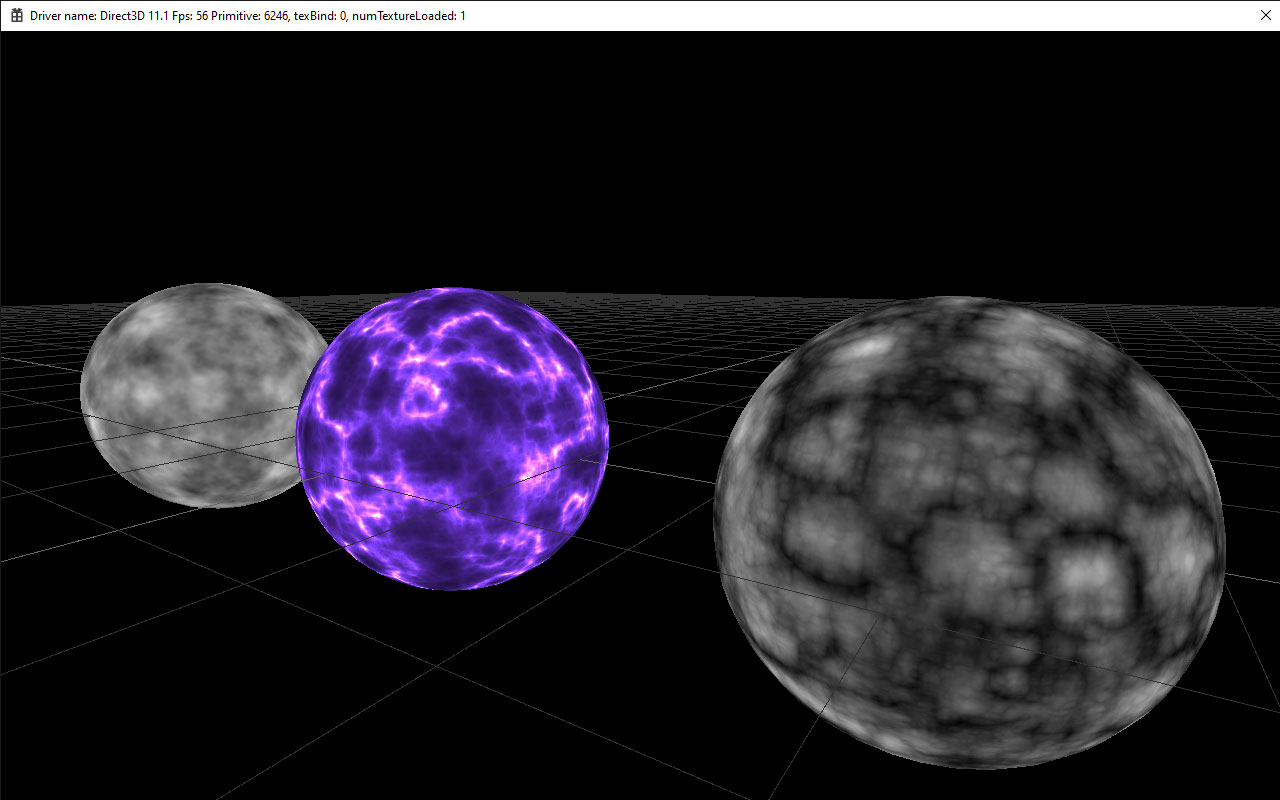
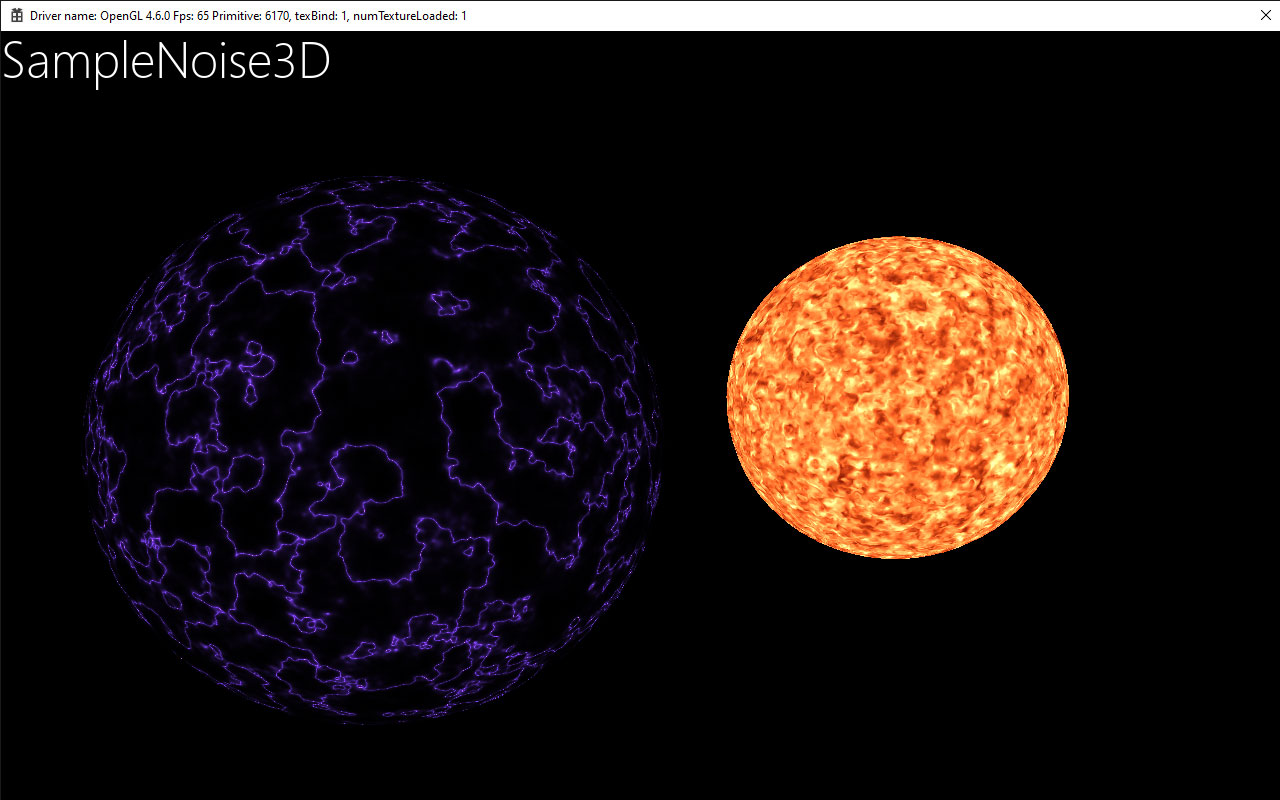
Add StarSequence3D.xml shader

diff --git a/Samples/Noise3D/Source/SampleNoise3D.cpp b/Samples/Noise3D/Source/SampleNoise3D.cpp
@@ -14,7 +14,8 @@ void installApplication(const std::vector<std::string>& argv)
 
 SampleNoise3D::SampleNoise3D() :
 	m_scene(NULL),
-	m_forwardRP(NULL)
+	m_forwardRP(NULL),
+	m_noiseOffset(3.0f, 0.0f, 0.0f)
 #if defined(USE_FREETYPE)	
 	, m_largeFont(NULL)
 #endif
@@ -101,6 +102,12 @@ void SampleNoise3D::onInitApp()
 	sphereObj->getTransformEuler()->setPosition(core::vector3df(0.0f, 0.0f, 0.0f));
 	m_materials.push_back(sphere->getMaterial());
 
+	sphereObj = zone->createEmptyObject();
+	sphere = sphereObj->addComponent<CSphereComponent>();
+	sphere->getMaterial()->changeShader("BuiltIn/Shader/Noise/StarSequence3D.xml");
+	sphereObj->getTransformEuler()->setPosition(core::vector3df(-3.0f, 0.0f, 0.0f));
+	m_materials.push_back(sphere->getMaterial());
+
 #if defined(USE_FREETYPE)
 	m_largeFont = new CGlyphFont();
 	m_largeFont->setFont("Segoe UI Light", 50);
@@ -121,13 +128,13 @@ void SampleNoise3D::onInitApp()
 
 void SampleNoise3D::onUpdate()
 {
-	m_noiseOffset = m_noiseOffset + core::vector3df(-0.0003f, 0.0003f, 0.0003f) * getTimeStep();
+	m_noiseOffset = m_noiseOffset + core::vector3df(-0.0003f, 0.0000f, 0.0003f) * getTimeStep();
 
 	float params[4];
 	params[0] = m_noiseOffset.X;
 	params[1] = m_noiseOffset.Y;
 	params[2] = m_noiseOffset.Z;
-	params[3] = 4.0f;
+	params[3] = 8.0f;
 
 	for (CMaterial *m : m_materials)
 	{

diff --git a/README.md b/README.md
@@ -108,7 +108,7 @@ Skylicht Engine is a super lightweight Game Engine, that target to mobile platfo
 
 ### Roadmap
 - [Skylight Engine Core](https://github.com/skylicht-lab/skylicht-engine/issues/5) (In progress)
-- [Skylight Engine Editor](https://github.com/skylicht-lab/skylicht-engine/issues/6) (Planned)
+- [Engine Editor](https://github.com/skylicht-lab/skylicht-engine/issues/6) (Planned)
 
 ### Samples\HelloWorld
 Engine Components are used:
